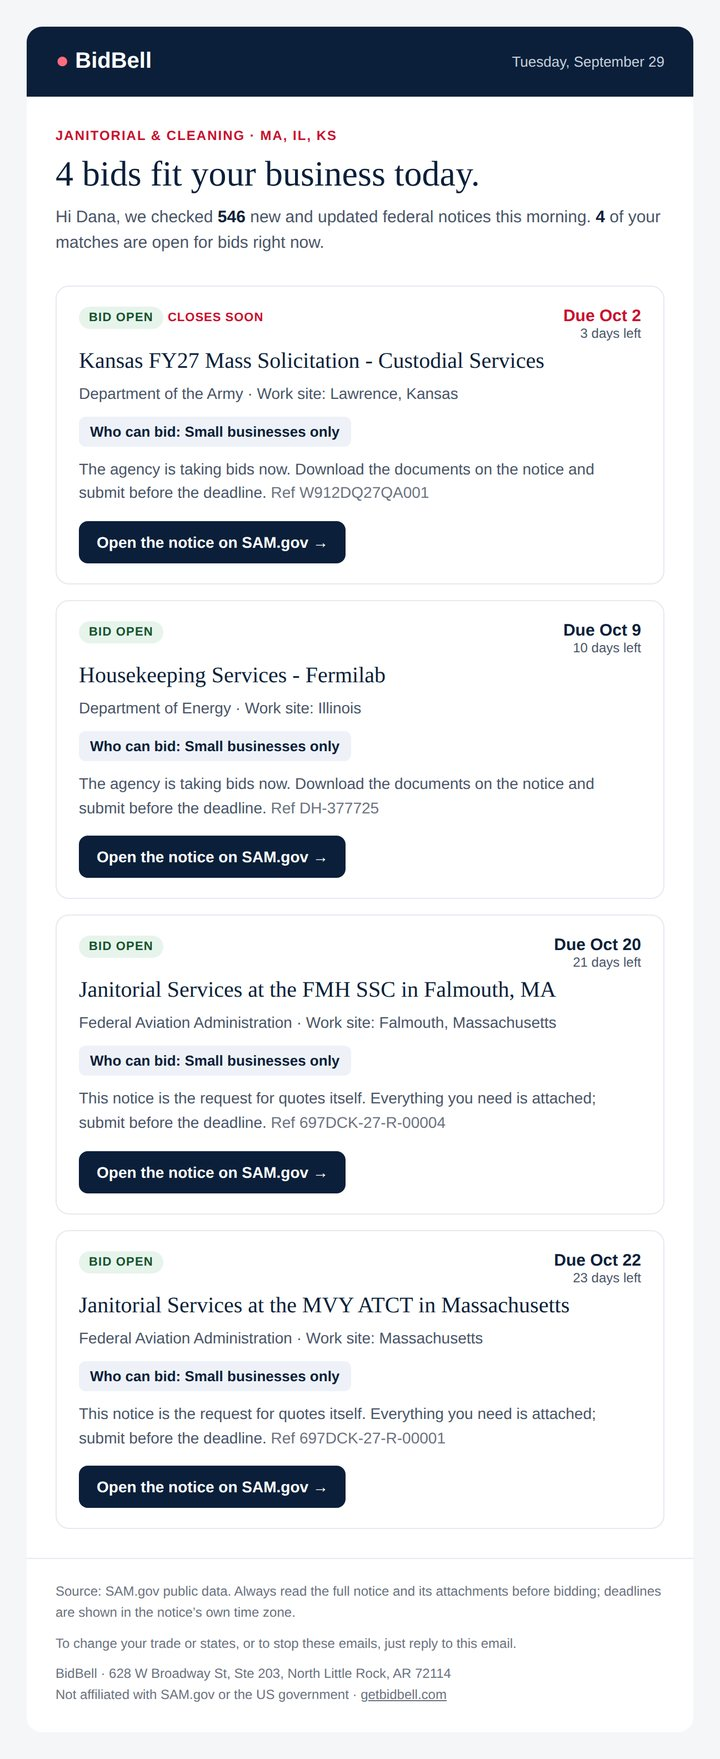
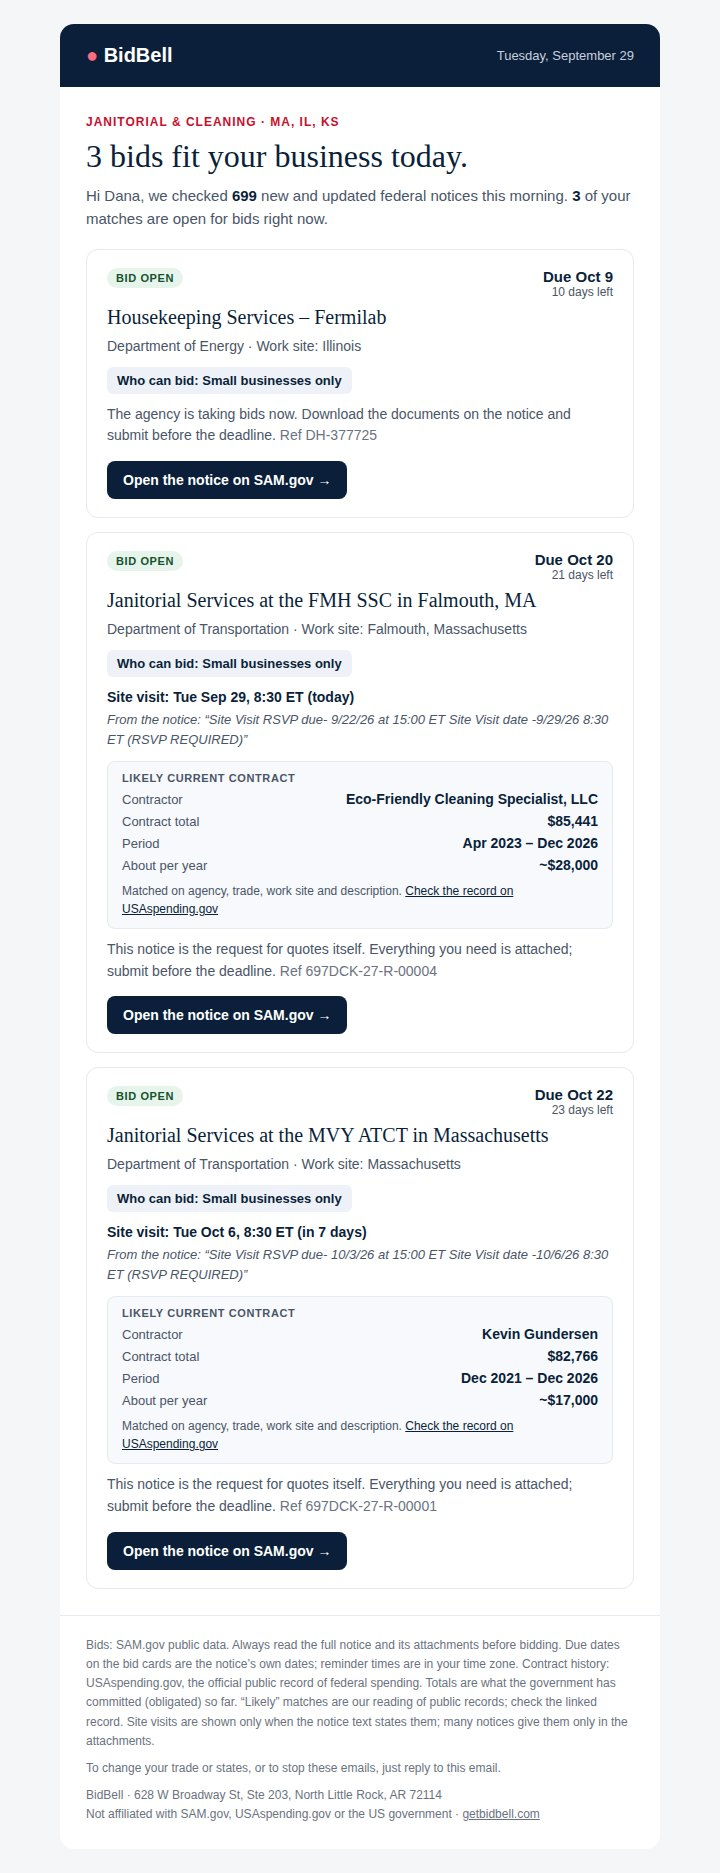
Sample alert image shows the new alert: site visits and likely current contracts (real render of Sep 29 data)
Claude-Session: https://claude.ai/code/session_01KrsRZhxhWFu8BqUfVseMZS

diff --git a/index.html b/index.html
@@ -176,7 +176,7 @@
     </details>
   </div>
   <div>
-    <div class="shot-frame"><picture><source srcset="/sample-alert.webp" type="image/webp"><img src="/sample-alert.jpg" width="720" height="1759" loading="lazy" decoding="async" alt="A BidBell alert email listing four open federal janitorial bids in Kansas, Illinois and Massachusetts, each showing the deadline, who can bid, and a button to the official notice."></picture></div>
+    <div class="shot-frame"><picture><source srcset="/sample-alert.webp" type="image/webp"><img src="/sample-alert.jpg" width="720" height="1873" loading="lazy" decoding="async" alt="A BidBell alert email listing three open federal janitorial bids in Illinois and Massachusetts, each showing the deadline, who can bid and a button to the official notice; two also show the site visit quoted from the notice and the likely current contract from USAspending.gov."></picture></div>
     <p class="photo-cap"><a href="/sample-alert.jpg">Open the full-size alert</a></p>
   </div>
 </div></section>

diff --git a/tools/build.py b/tools/build.py
@@ -401,7 +401,7 @@ def home():
     </details>
   </div>
   <div>
-    <div class="shot-frame"><picture><source srcset="/sample-alert.webp" type="image/webp"><img src="/sample-alert.jpg" width="720" height="1759" loading="lazy" decoding="async" alt="A BidBell alert email listing four open federal janitorial bids in Kansas, Illinois and Massachusetts, each showing the deadline, who can bid, and a button to the official notice."></picture></div>
+    <div class="shot-frame"><picture><source srcset="/sample-alert.webp" type="image/webp"><img src="/sample-alert.jpg" width="720" height="1873" loading="lazy" decoding="async" alt="A BidBell alert email listing three open federal janitorial bids in Illinois and Massachusetts, each showing the deadline, who can bid and a button to the official notice; two also show the site visit quoted from the notice and the likely current contract from USAspending.gov."></picture></div>
     <p class="photo-cap"><a href="/sample-alert.jpg">Open the full-size alert</a></p>
   </div>
 </div></section>
